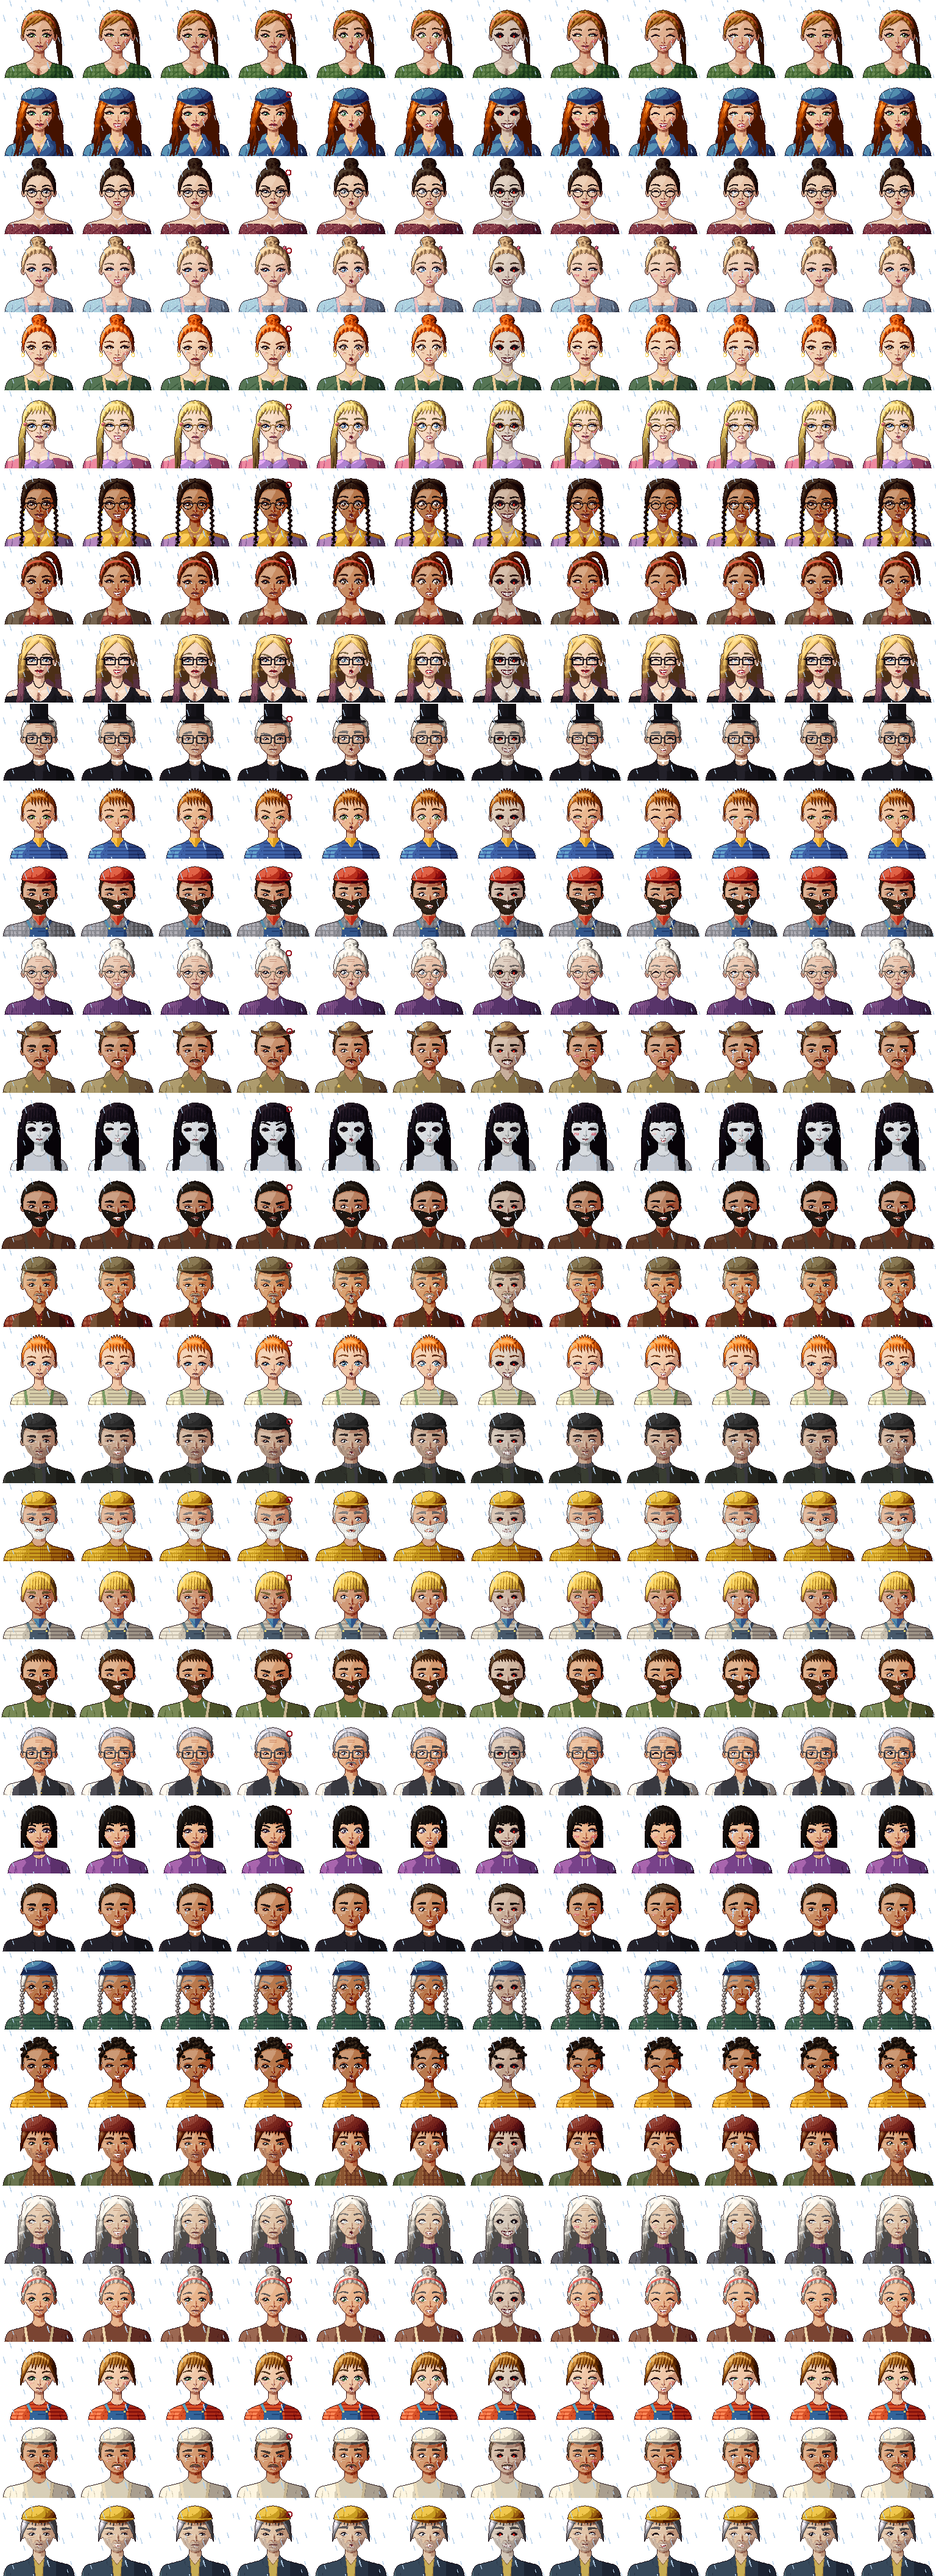
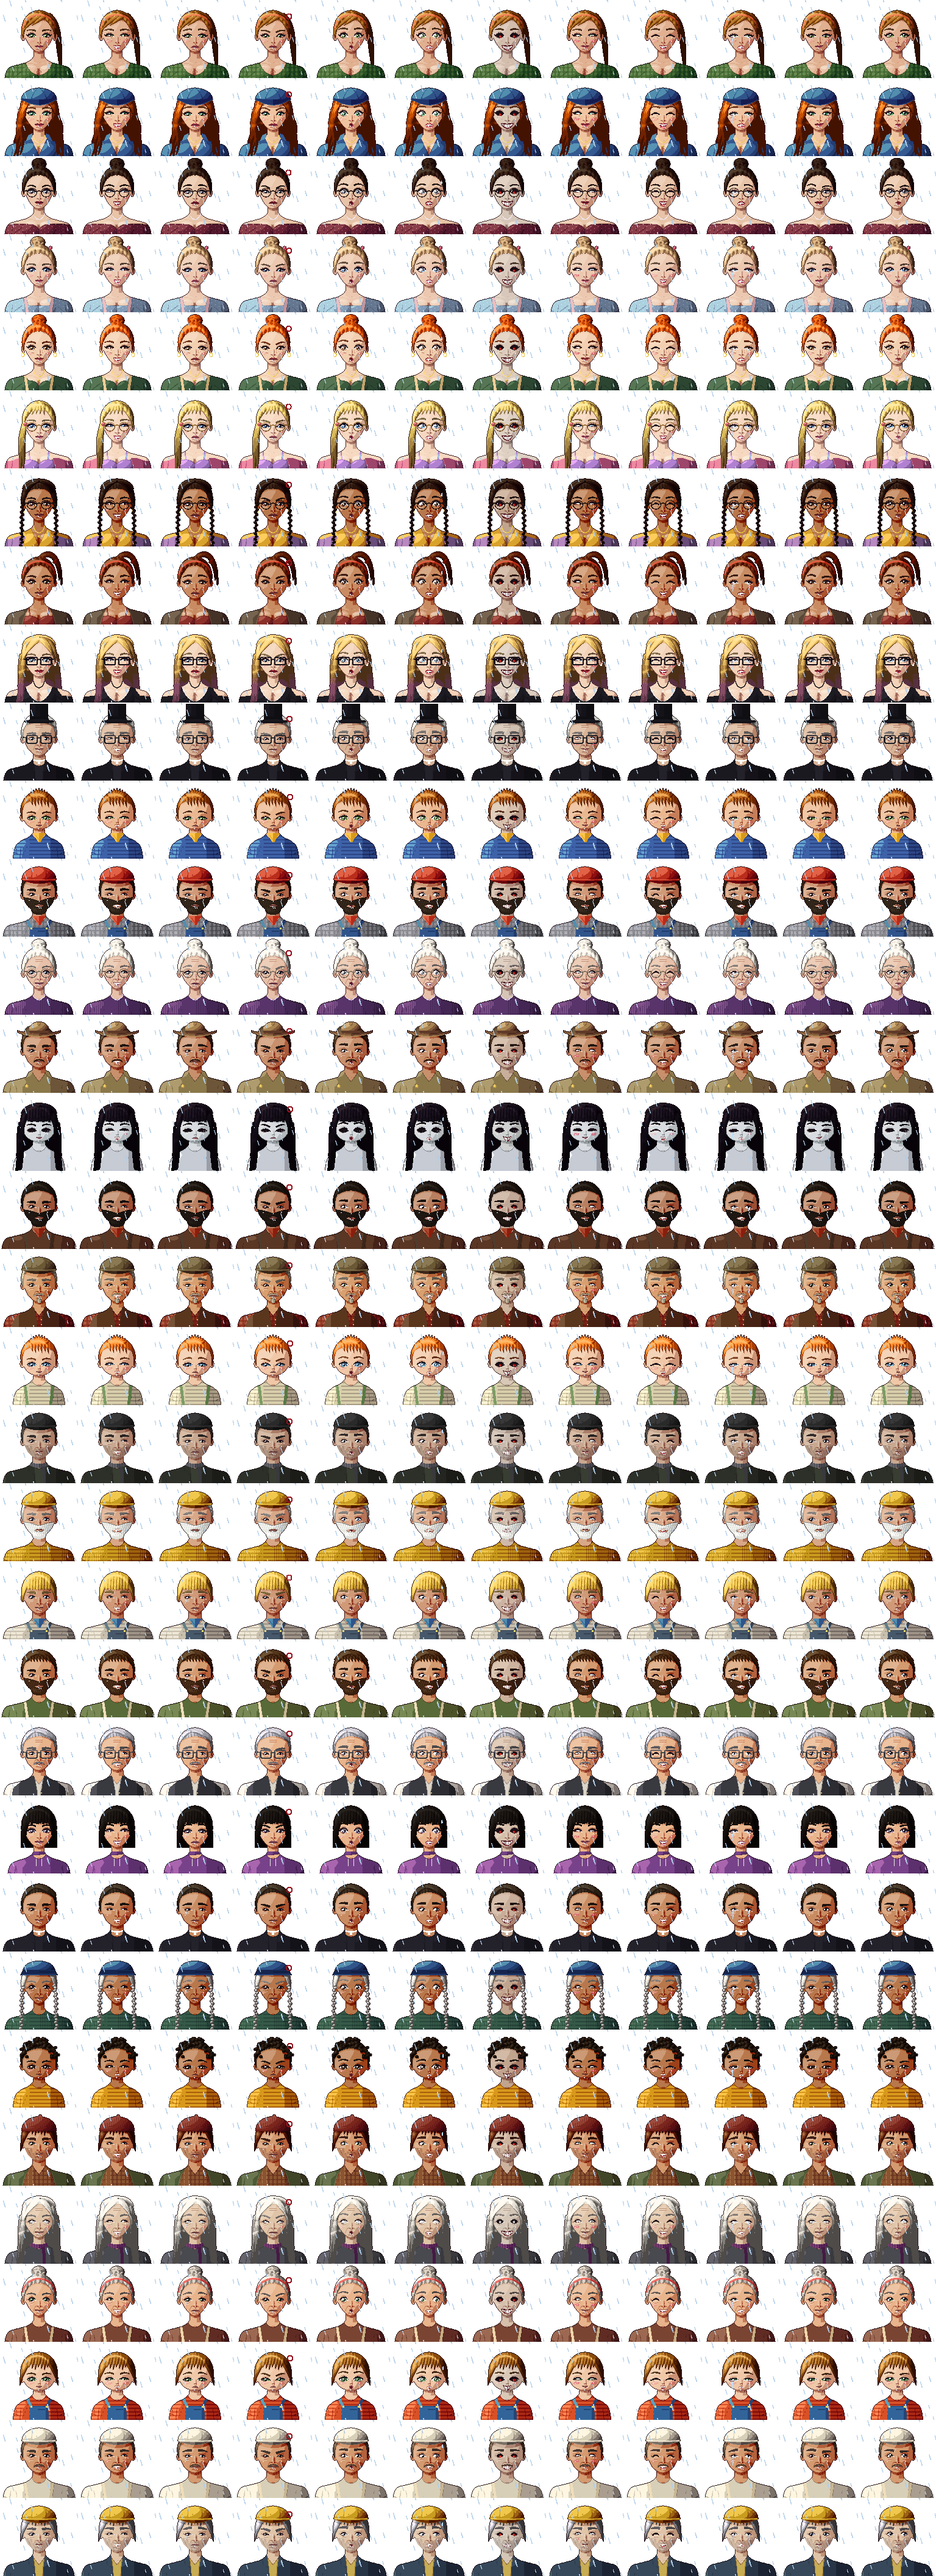
Kids' chat portraits look like kids
Tobias, Pip, Finn, Bram and Ruth had adult faces: long and narrow with
a pointed chin, small eyes set high, a long neck and broad shoulders.
Now they have round, short faces with a big forehead and full cheeks,
bigger eyes set lower, a button nose, a small mouth and a soft little
chin, with a short neck and narrow shoulders sitting close under it.
Every expression, day, night and rain.

Claude-Session: https://claude.ai/code/session_01P6pGQCq2oe4GSAnTdGYxNB

diff --git a/hollow-acre/2d/tools/px/portrait4.py b/hollow-acre/2d/tools/px/portrait4.py
@@ -171,13 +171,13 @@ def wave_pts(pts, amp, freq, phase=0.0, axis=0):
 
 class Painter:
     def __init__(s, C, ex, var='day'):
-        global LV
+        global LV, BO
         L0 = {'night': (-.5, -.25, .82)}.get(var, (-.5, -.62, .6)); LV = np.array(L0) / np.linalg.norm(L0)
         D = dict(face_w=25.0, chin=86.0, jaw_p=1.85, jaw_q=.5, jaw_taper=.26, eye_a=6.2, iris=4.1, eye_y=59.3, lash_w=1.12)
         T = {'man': dict(face_w=26.0, chin=88.0, jaw_p=2.5, jaw_q=.62, jaw_taper=.12, eye_a=5.1, iris=3.0, tilt=.15, lash_w=.55, wing=0, lashes=0, eye_y=59.6, brow_y=52.0, eye_open=.74,
                          brow_w=1.6, brow_arch=.5, lip_w=6.4, lip_up=1.3, lip_lo=1.9, nose=1.12, blush=.1, shoulder=58.0, neck_w=10.2, natural_lip=.5),
-             'kid': dict(face_w=25.6, chin=84.0, jaw_p=1.7, jaw_q=.45, jaw_taper=.3, eye_a=6.7, iris=4.6, eye_y=61.0, tilt=.1, lash_w=.8, wing=0, lashes=0, nose=.75,
-                         lip_w=5.0, lip_up=1.5, lip_lo=2.1, blush=.55, shoulder=46.0, neck_w=7.4, brow_w=1.0, natural_lip=.55),
+             'kid': dict(face_w=27.0, chin=80.5, jaw_p=2.6, jaw_q=.55, jaw_taper=.06, eye_a=7.5, iris=5.5, eye_y=62.2, tilt=.04, lash_w=.8, wing=0, lashes=0, nose=.55,
+                         nose_y=68.4, mouth_y=73.8, brow_y=53.6, lip_w=4.4, lip_up=1.3, lip_lo=1.9, blush=.65, shoulder=41.0, neck_w=8.8, brow_w=1.0, natural_lip=.55, body_dy=-8.0),
              'elder': dict(eye_a=5.4, iris=3.4, tilt=0, lash_w=.85, wing=0, lashes=0, lip_up=1.6, lip_lo=2.2, blush=.25, age=.75, natural_lip=.45, jaw_q=.58)}.get(C.get('kind'), {})
         if C.get('kind') == 'oldman': T = dict({'man': 1} and {}, **{})
         base = dict(D); base.update(T)
@@ -185,6 +185,7 @@ class Painter:
             base.update(face_w=26.0, chin=88.0, jaw_p=2.3, jaw_q=.6, jaw_taper=.14, eye_a=4.9, iris=2.9, tilt=.0, lash_w=.55, wing=0, lashes=0, eye_y=59.8, brow_y=51.6, eye_open=.72,
                         brow_w=1.7, brow_arch=.6, lip_w=6.2, lip_up=1.1, lip_lo=1.6, nose=1.2, blush=.1, shoulder=57.0, neck_w=9.6, natural_lip=.42, age=.85)
         C = dict(base, **C)
+        BO = 4.0 + C.get('body_dy', 0.0)    # kids' shoulders sit closer under the chin
         if var == 'wet': C['vol'] = C.get('vol', 0) - 2.5
         s.C = C; s.ex = ex; s.var = var; s.pal = Palette(); s.cv = Canvas(s.pal); s.rng = np.random.RandomState(C.get('seed', 7))
         s.mk_palette()
@@ -332,7 +333,7 @@ class Painter:
         sw = s.C.get('shoulder', 55.0); o = BO
         nw = s.C.get('neck_w', 8.4)
         tr = bez([(nw + .6, 88 + o), (nw + 5.6, 99 + o), (30, 100 + o), (sw - 9, 105 + o)], 30)
-        dl = bez([(sw - 9, 105 + o), (sw - 3, 107.5 + o), (sw + 1, 114 + o), (sw + 2, 129 + o)], 20)
+        dl = bez([(sw - 9, 105 + o), (sw - 3, 107.5 + o), (sw + 1, 114 + o), (sw + 2, max(129 + o, 132))], 20)
         half = np.vstack([tr, dl])
         R = [(CX + x, y) for x, y in half]; L = [(CX - x, y) for x, y in half[::-1]]
         return L + R
@@ -371,7 +372,7 @@ class Painter:
         cv.put(s.bust_m & cv.where('skin'), 'skin', L)
         top = cy - b * .94
         cv.add(s.bust_m, 'skin', -.4 * np.exp(-((X - CX - .3) / 2.4) ** 2) * sstep(top + 2, top + 7, Y))
-        cv.put(stroke(bez([(CX + .25, top + 5.5), (CX - .15, top + 10), (CX + .3, 129 + BO)], 20), [.3, .8, 1.0]), 'cleave', .5)
+        cv.put(stroke(bez([(CX + .25, top + 5.5), (CX - .15, top + 10), (CX + .3, max(129 + BO, 132))], 20), [.3, .8, 1.0]), 'cleave', .5)
         for sg in (-1, 1):   # the inner curve of each breast, meeting in a soft Y
             cv.put(stroke(bez([(CX + sg * .4, top + 7.5), (CX + sg * 2.2, top + 9.2), (CX + sg * 4.2, top + 12.6)], 12), [.6, .5, .2]), 'cleave', .5)
             cv.add(ell(CX + sg * (sep - 3.5), top + 4.5, 4.2, 2.2) & s.bust_m, 'skin', .07)
@@ -470,8 +471,8 @@ class Painter:
         tor = poly(s.torso_poly())
         if kind in ('cardigan', 'jacket'):
             for sg in (-1, 1):
-                inner = bez([(CX + sg * 13, 88 + o), (CX + sg * 19.5, 100 + o), (CX + sg * 25, 113 + o), (CX + sg * 28, 129 + o)], 30)
-                pts = [(x, y) for x, y in inner] + [(CX + sg * (sw + 4), 129 + o), (CX + sg * (sw + 4), 86 + o)]
+                inner = bez([(CX + sg * 13, 88 + o), (CX + sg * 19.5, 100 + o), (CX + sg * 25, 113 + o), (CX + sg * 28, max(129 + o, 132))], 30)
+                pts = [(x, y) for x, y in inner] + [(CX + sg * (sw + 4), max(129 + o, 132)), (CX + sg * (sw + 4), 86 + o)]
                 m = poly(pts) & tor
                 if C.get('cardi_off'): m &= Y > (107 + o + 5 * sstep(30, 50, np.abs(X - CX)))
                 lit = .58 - .2 * (X - CX) / 55 - .1 * sstep(40, 58, np.abs(X - CX)) + .06 * G(CX - 34, 104 + o, 12, 5)
@@ -495,7 +496,7 @@ class Painter:
                 cv.add(shift(col, 0, 1.0) & ~col & tor, 'top', -.15)
         if kind == 'apron':
             for sg in (-1, 1):
-                st = stroke(bez([(CX + sg * 24, 92 + o), (CX + sg * 21.5, 108 + o), (CX + sg * 18.5, 129 + o)], 20), [4.2, 4.2, 4.6])
+                st = stroke(bez([(CX + sg * 24, 92 + o), (CX + sg * 21.5, 108 + o), (CX + sg * 18.5, max(129 + o, 132))], 20), [4.2, 4.2, 4.6])
                 cv.put(st & tor, 'top2', .66 - .12 * sg)
                 cv.add(shift(st, sg * .9, 0) & ~st & tor, 'top', -.12)
 
@@ -661,8 +662,9 @@ class Painter:
 
     def nose(s):
         cv = s.cv; n = s.C.get('nose', 1.0)
-        cv.put(ell(CX - 2.5 * n, 69.7, .95, .55), 'nostril', .62)
-        cv.put(ell(CX + 2.6 * n, 69.7, 1.05, .6), 'nostril', .3)
+        ny = s.C.get('nose_y', 69.7)
+        cv.put(ell(CX - 2.5 * n, ny, .95, .55), 'nostril', .62)
+        cv.put(ell(CX + 2.6 * n, ny, 1.05, .6), 'nostril', .3)
 
     def mouth(s):
         C, cv, ex = s.C, s.cv, s.ex
@@ -1079,7 +1081,7 @@ class Painter:
     def wear(s):
         C, cv = s.C, s.cv; o = BO; sw = C.get('shoulder', 55.0); tor = poly(s.torso_poly()); w = C.get('wear') or ()
         if 'overalls' in w:
-            bib = poly([(CX - 15, 109 + o), (CX + 15, 109 + o), (CX + 16, 130 + o), (CX - 16, 130 + o)]) & tor
+            bib = poly([(CX - 15, 109 + o), (CX + 15, 109 + o), (CX + 16, max(130 + o, 132)), (CX - 16, max(130 + o, 132))]) & tor
             L = .58 - .18 * (X - CX) / 40
             cv.put(bib, 'top2', L); cv.add(bib & ~shift(bib, 0, 1), 'top2', -.15)
             cv.add(stroke([(CX - 9, 115 + o), (CX + 9, 115 + o)], [.6, .6]) & bib, 'top2', -.12)
@@ -1158,7 +1160,7 @@ class Painter:
         # the arms part from the body
         sw = C.get('shoulder', 55.0)
         for sg in (-1, 1):
-            am = stroke(bez([(CX + sg * (sw - 12), 112 + BO), (CX + sg * (sw - 10.5), 120 + BO), (CX + sg * (sw - 9.5), 129 + BO)], 16), [.4, 1.0, 1.1])
+            am = stroke(bez([(CX + sg * (sw - 12), 112 + BO), (CX + sg * (sw - 10.5), 120 + BO), (CX + sg * (sw - 9.5), max(129 + BO, 132))], 16), [.4, 1.0, 1.1])
             for m_ in ('skin', 'top', 'top2', 'dot'):
                 if m_ in s.pal.names: cv.add(am, m_, -.17)
         if s.var == 'wet':
